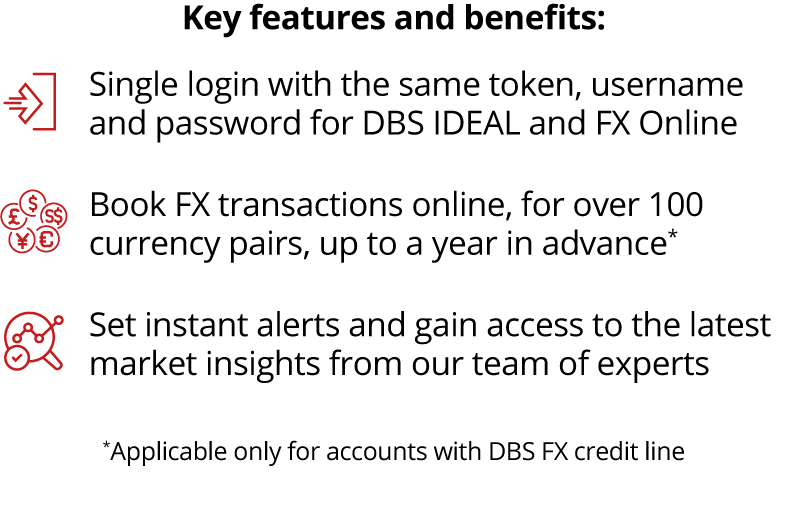
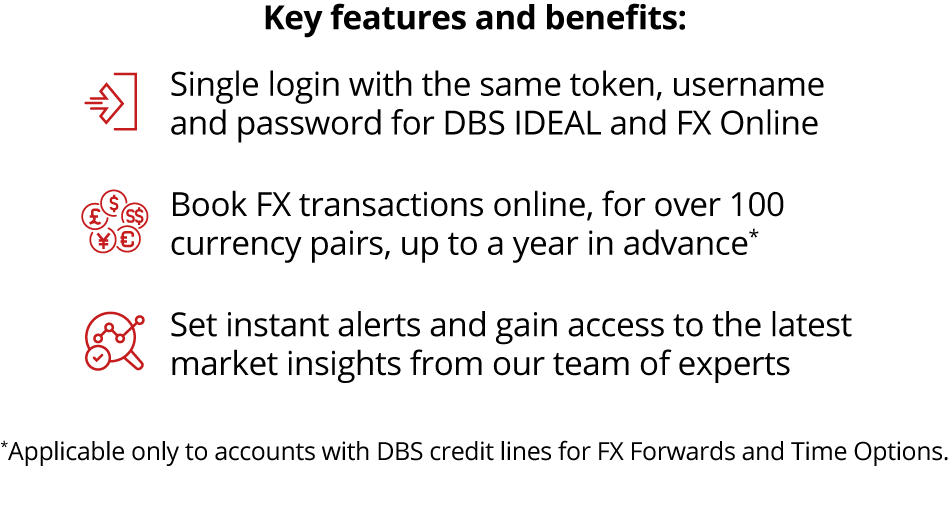
feat: copy changes + gif update

diff --git a/DBS/SecureFX/Feb26-Goldfish-Apply/index.html b/DBS/SecureFX/Feb26-Goldfish-Apply/index.html
@@ -159,7 +159,7 @@
                 <table cellpadding="0" cellspacing="0" border="0" width="650">
                     <tr>
                         <td style="font-size: 0px; line-height: 0px; overflow: hidden; position: relative;">
-                            <img src="images/replace_with_gif.png" width="650" alt="S$400 with spinning currencies"
+                            <img src="images/DBS-FISH-R2.gif" width="650" alt="Fish tank with currencies"
                                 style="display: block;">
                         </td>
                     </tr>
@@ -185,9 +185,9 @@
                         </td>
                     </tr>
                 </table>
-                Protect your business margins by managing your FX exposure with DBS FX Online.
+                Protect your business margins by managing FX exposure with DBS FX Online.
                 <br><br>
-                DBS FX Online allows you to lock in live, competitive and transparent exchange rates, giving you peace
+                DBS FX Online allows you to lock in live, competitive and transparent exchange rates, providing peace
                 of mind and protection from market volatility.
 
             </td>
@@ -207,7 +207,7 @@
                         <tr>
                             <td width="100%" valign="top" align="center"
                                 style="padding:0px 30px 0px 50px; font-size: 0px;mso-line-height-rule: exactly; line-height: 0">
-                                <img src="images/features.png" width="380px" alt="features">
+                                <img src="images/features.png" width="450px" alt="features">
                             </td>
                         </tr>
                     </tbody>

diff --git a/DBS/SecureFX/Feb26-Goldfish-Transact/index.html b/DBS/SecureFX/Feb26-Goldfish-Transact/index.html
@@ -159,7 +159,7 @@
                 <table cellpadding="0" cellspacing="0" border="0" width="650">
                     <tr>
                         <td style="font-size: 0px; line-height: 0px; overflow: hidden; position: relative;">
-                            <img src="images/replace_with_gif.png" width="650" alt="S$400 with spinning currencies"
+                            <img src="images/DBS-FISH-R2.gif" width="650" alt="Fish tank with currencies"
                                 style="display: block;">
                         </td>
                     </tr>
@@ -185,9 +185,9 @@
                         </td>
                     </tr>
                 </table>
-                Protect your business margins by managing your FX exposure with DBS FX Online.
+                Protect your business margins by managing FX exposure with DBS FX Online.
                 <br><br>
-                DBS FX Online allows you to lock in live, competitive and transparent exchange rates, giving you peace
+                DBS FX Online allows you to lock in live, competitive and transparent exchange rates, providing peace
                 of mind and protection from market volatility.
 
             </td>
@@ -207,7 +207,7 @@
                         <tr>
                             <td width="100%" valign="top" align="center"
                                 style="padding:0px 30px 0px 50px; font-size: 0px;mso-line-height-rule: exactly; line-height: 0">
-                                <img src="images/features.png" width="380px" alt="features">
+                                <img src="images/features.png" width="450px" alt="features">
                             </td>
                         </tr>
                     </tbody>
